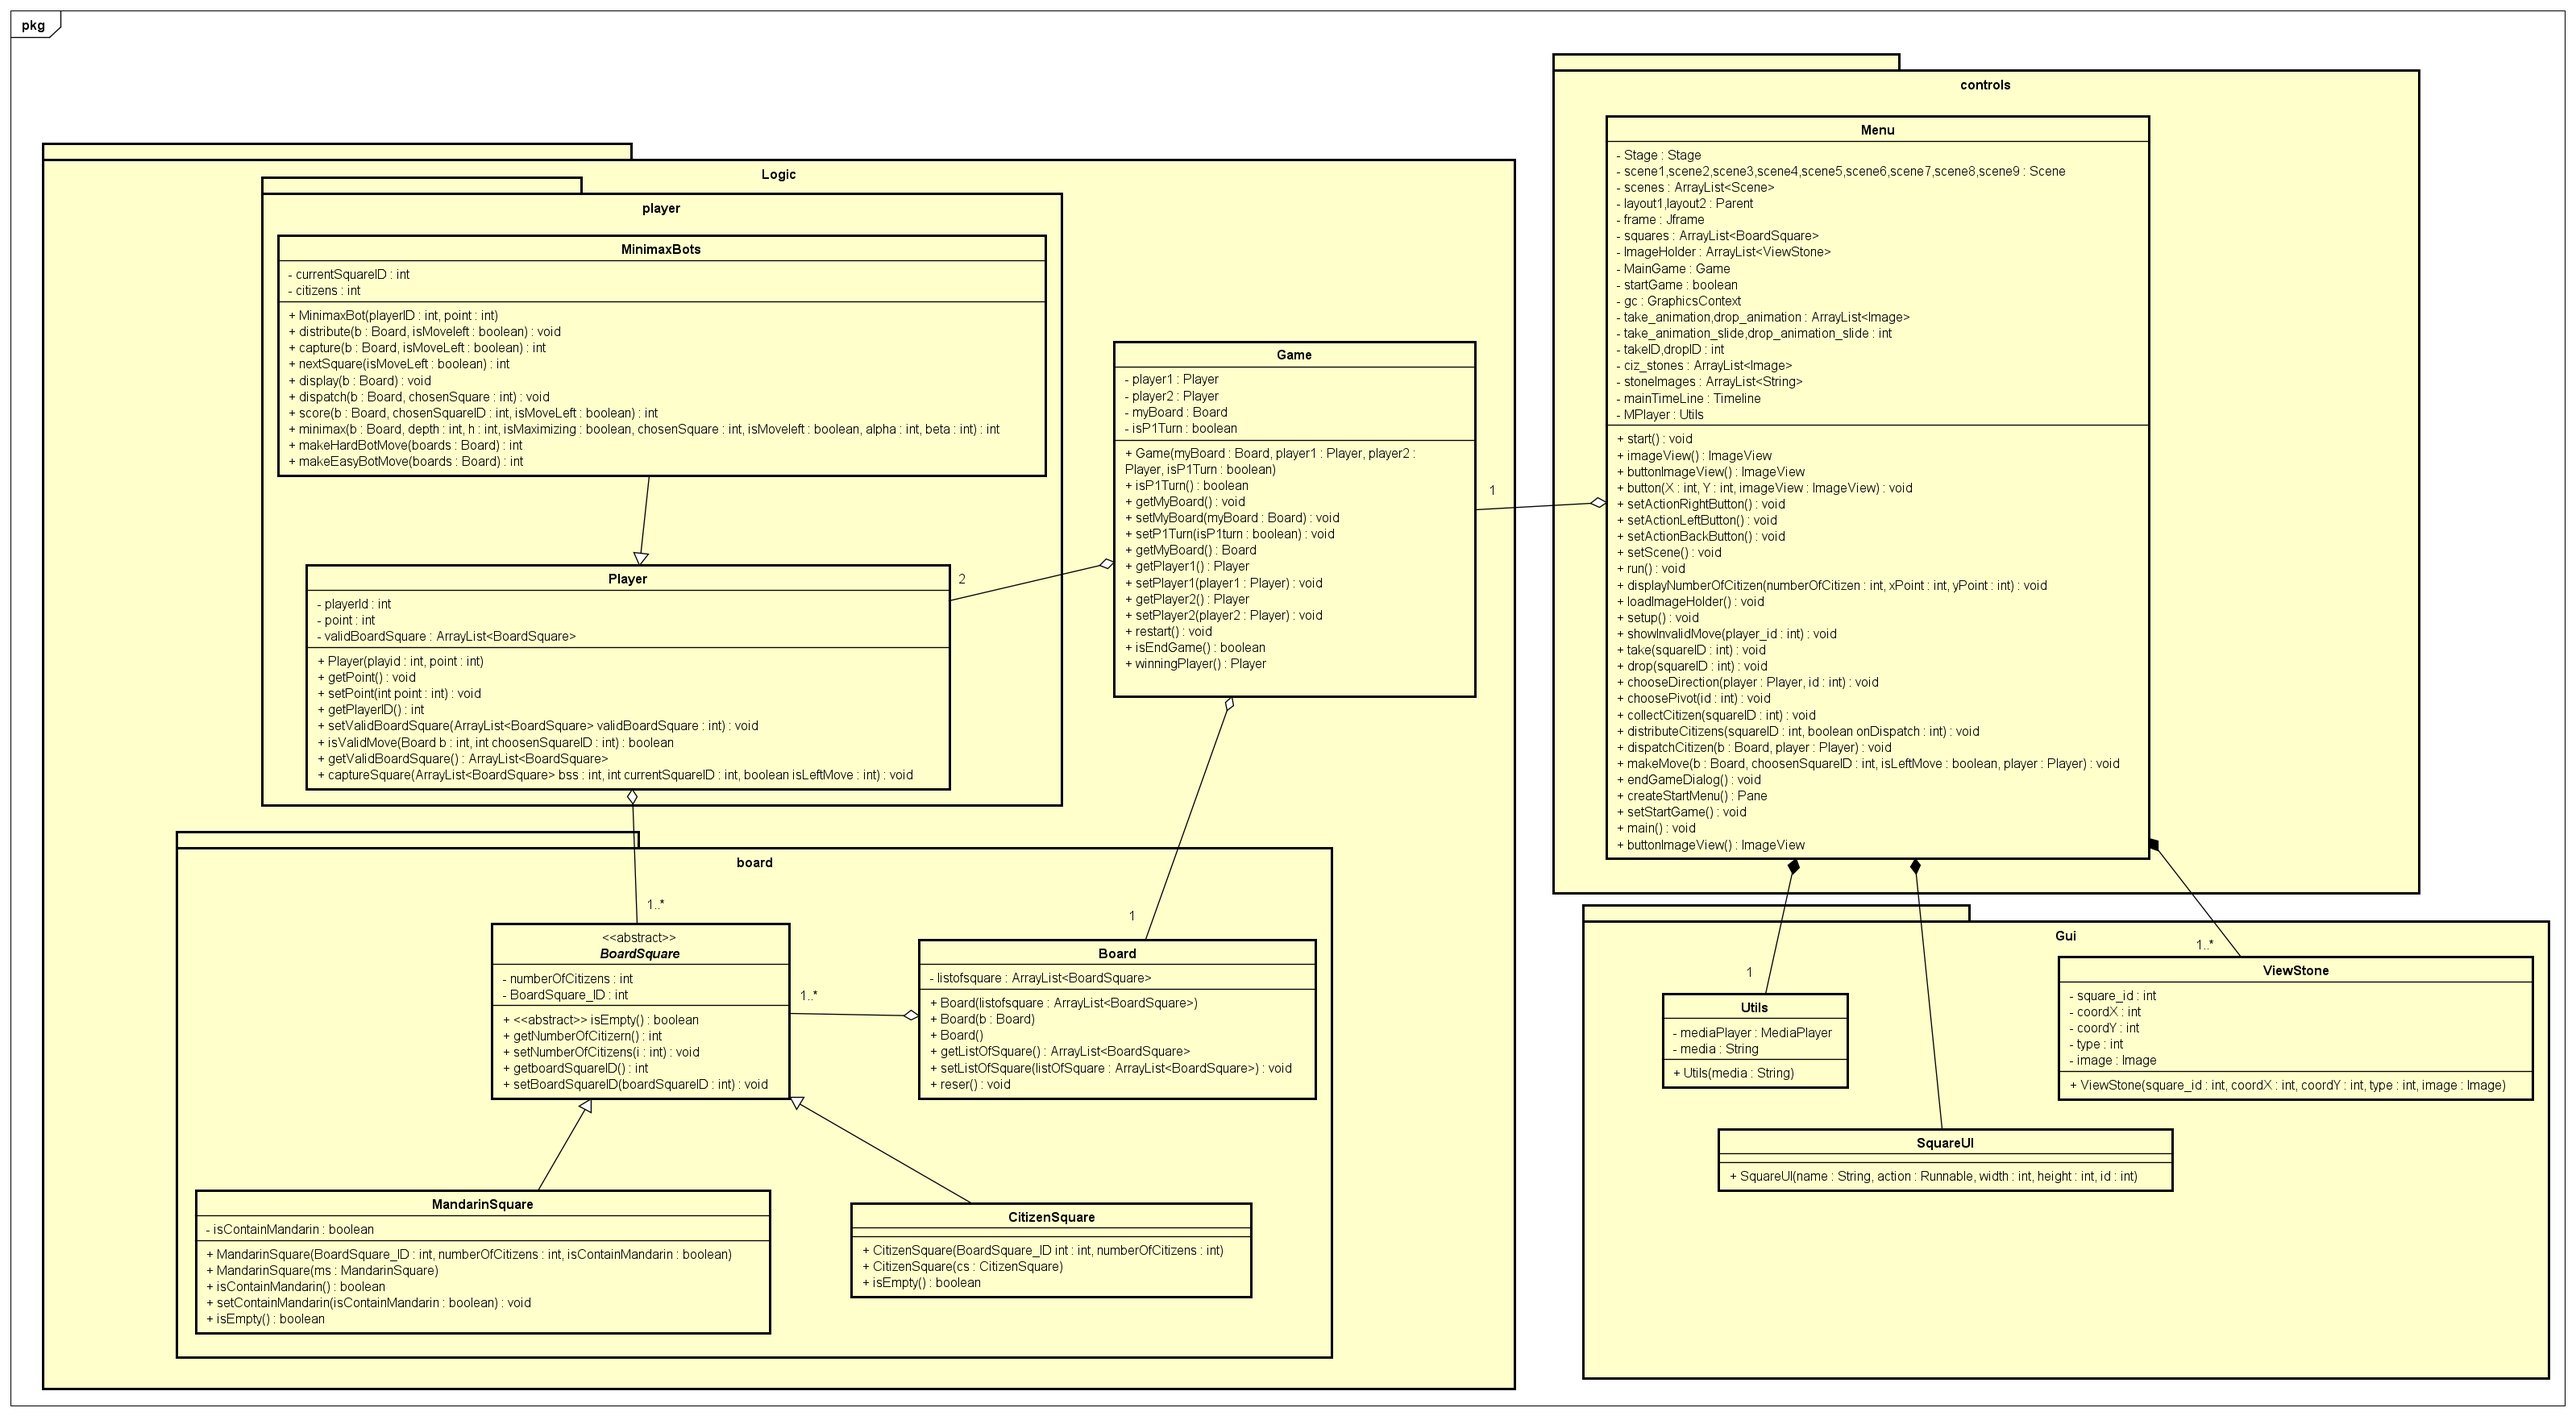
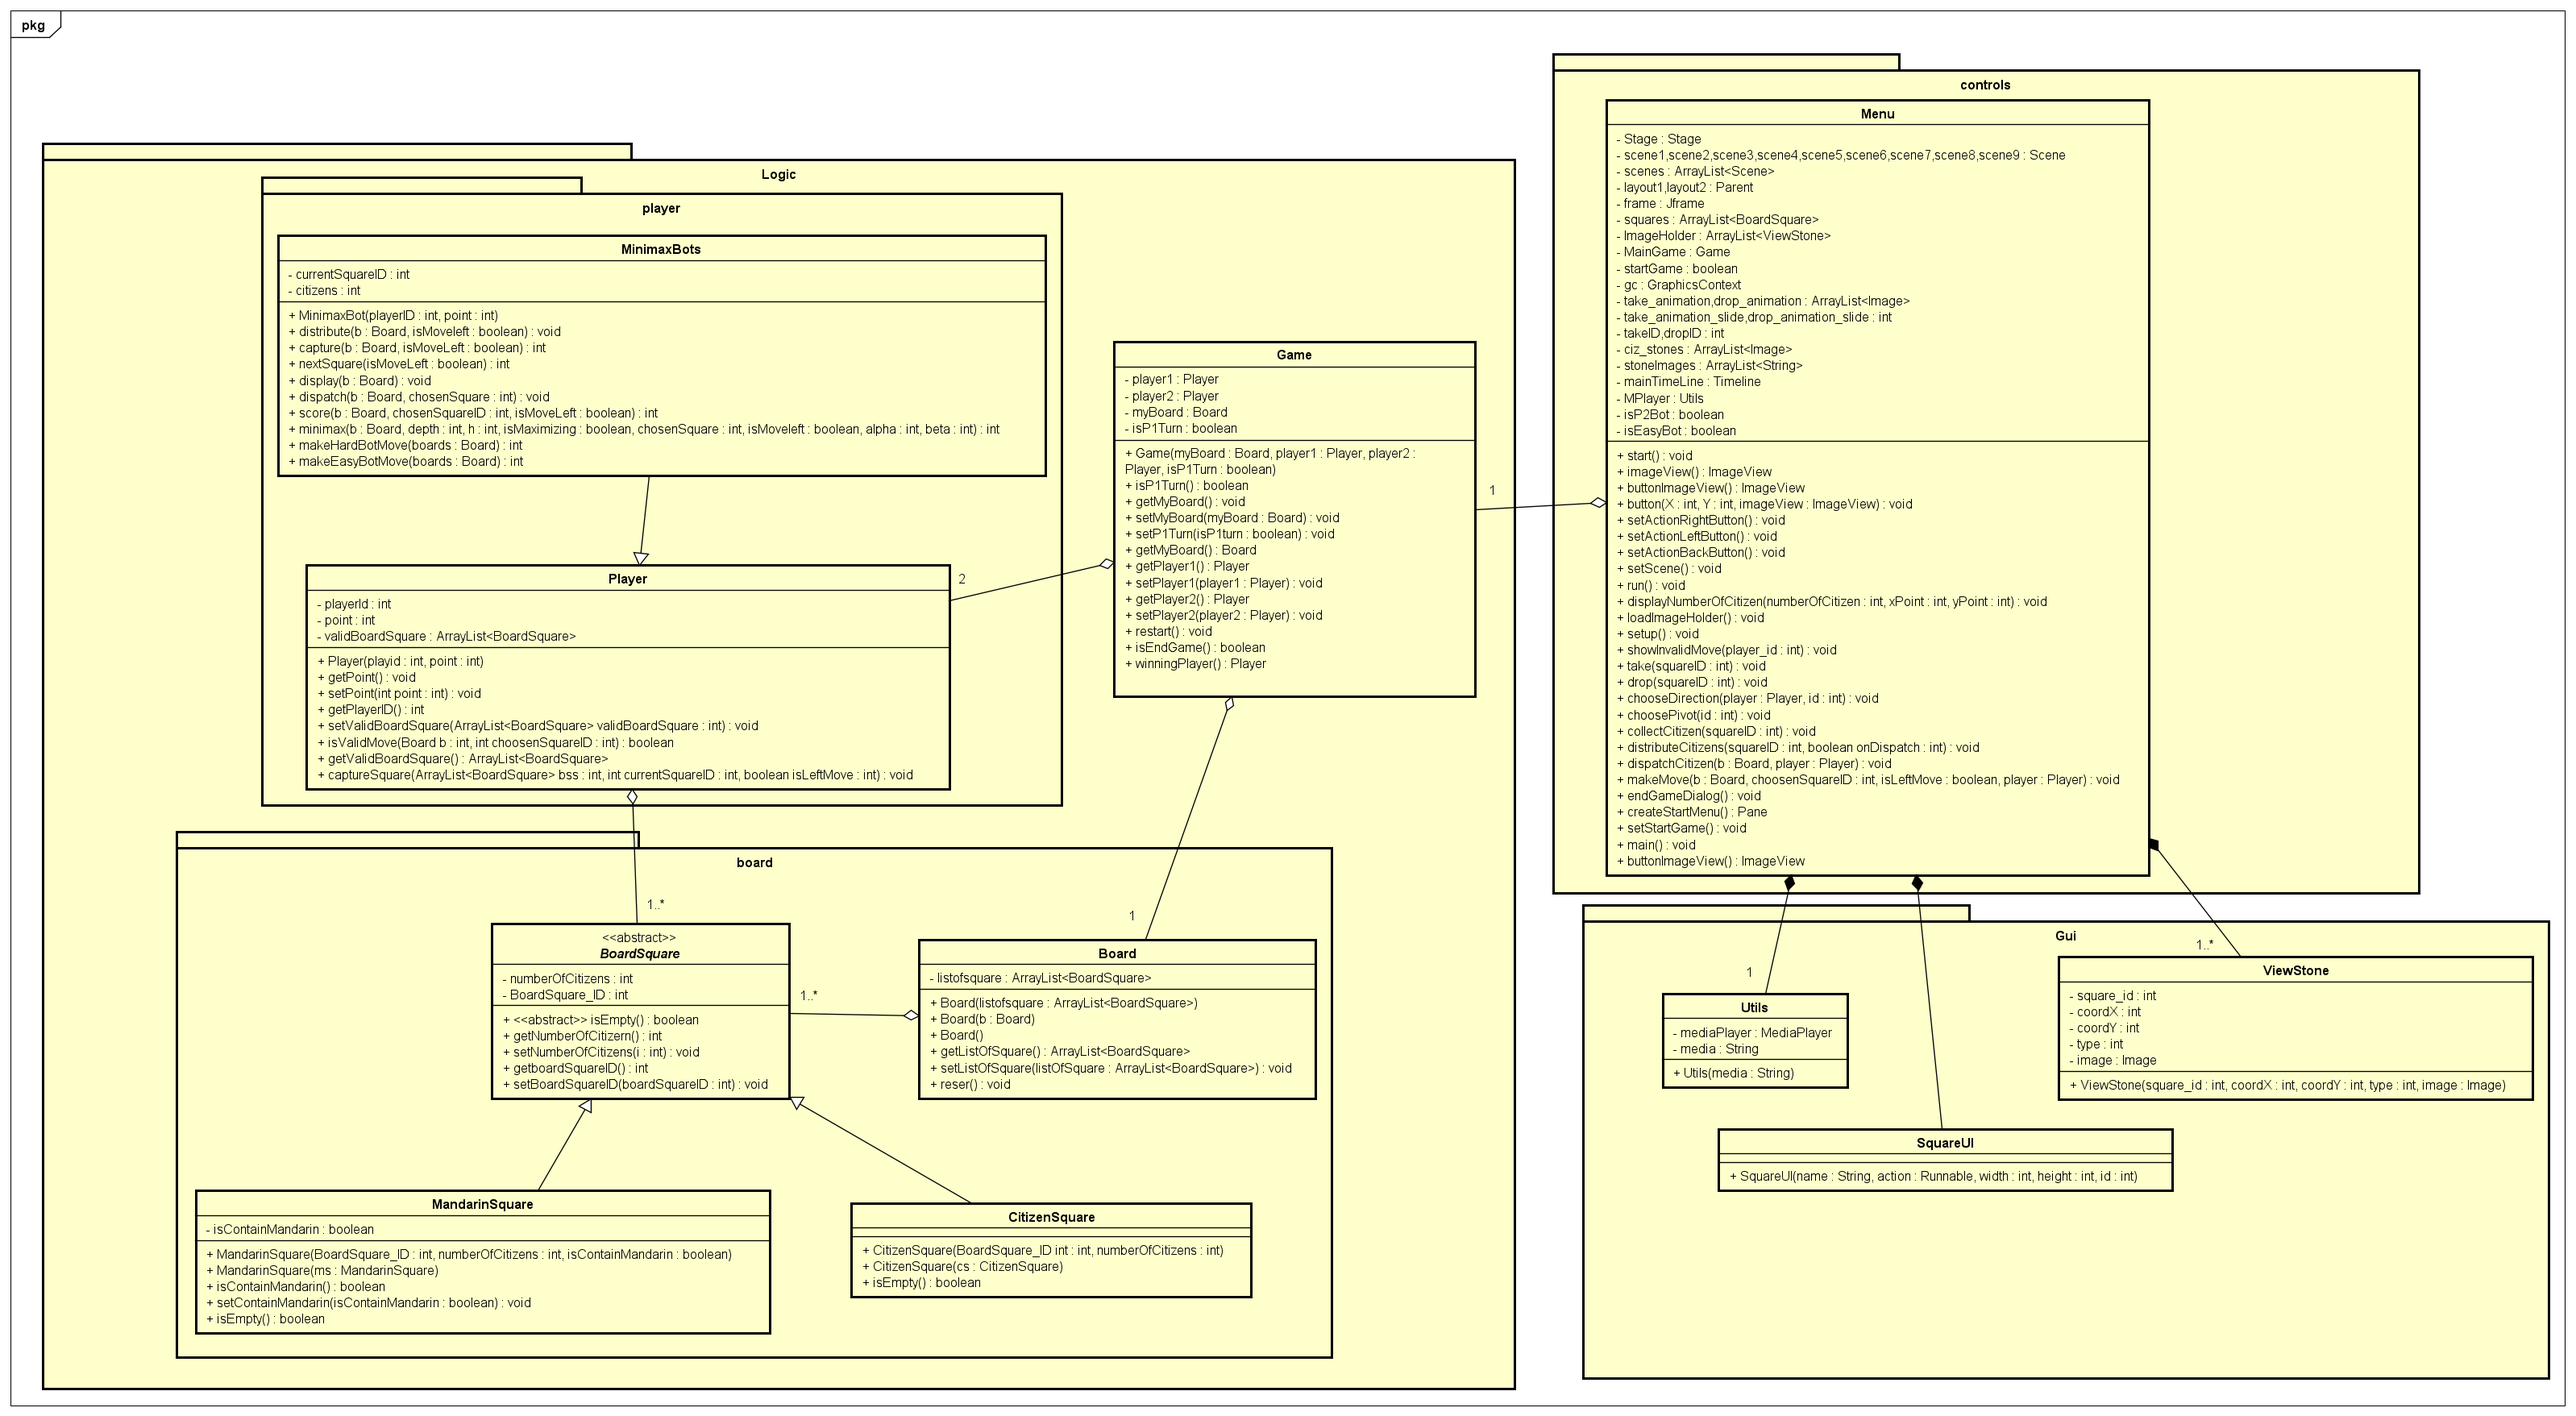
Update bot configuration

Changed region(s): [[0.6195, 0.0615, 0.8364, 0.6147]]

diff --git a/src/controls/player/MinimaxBot.java b/src/controls/player/MinimaxBot.java
@@ -163,7 +163,7 @@ public class MinimaxBot extends Player {
 		if(depth==h || (board.getListOfSquare().get(0).isEmpty() && board.getListOfSquare().get(6).isEmpty())) {
 			return score;
 		}
-		if(!isMaximizing) {
+		if(isMaximizing==false) {
 			int value = Integer.MIN_VALUE;
 			dispatch(board, 1);
 			for(int i = 1; i <= 5; i++) {
@@ -202,7 +202,7 @@ public class MinimaxBot extends Player {
 					beta = Math.min(value, beta);
 				}
 			}
-			System.out.println("Square ID: " + chosenSquare);
+//			System.out.println("Square ID: " + chosenSquare);
 			System.out.println("Value: " + value);
 			return value;
 		}
@@ -249,7 +249,7 @@ public class MinimaxBot extends Player {
 		}else {
 			dir="right";
 		}
-		System.out.println("Best choice: " + (bestSquareID)/2);
+		System.out.println("Best choice: " + bestSquareID);
 		System.out.println("Best direction: " + dir);
 		if(bestMove) {
 			move +=1;
@@ -268,7 +268,7 @@ public class MinimaxBot extends Player {
 		int bestSquareID = 0;
 		boolean bestMove = true;
 		display(b);
-		int height = 2;
+		int height = 1;
 		int depth = 0;
 		int alpha = Integer.MIN_VALUE;
 		int beta = Integer.MAX_VALUE;

diff --git a/src/Menu.java b/src/Menu.java
@@ -818,7 +818,7 @@ public class Menu extends Application{
             this.ciz_stones.add(stone);
         }
 
-        this.MPlayer =  new Utils(new File("src/gui/asset/soundtrack.mp3").toURI().toString());
+        this.MPlayer =  new Utils(new File("gui/asset/soundtrack.mp3").toURI().toString());
         CitizenSquare CS1 = new CitizenSquare(1, 5);
         CitizenSquare CS2 = new CitizenSquare(2, 5);
         CitizenSquare CS3 = new CitizenSquare(3, 5);
